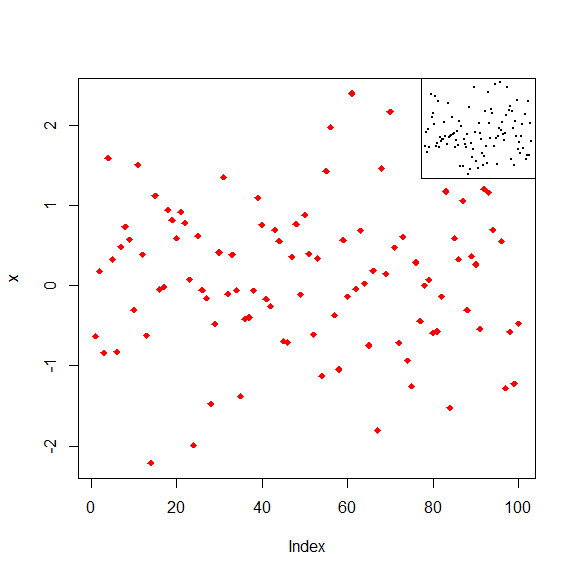
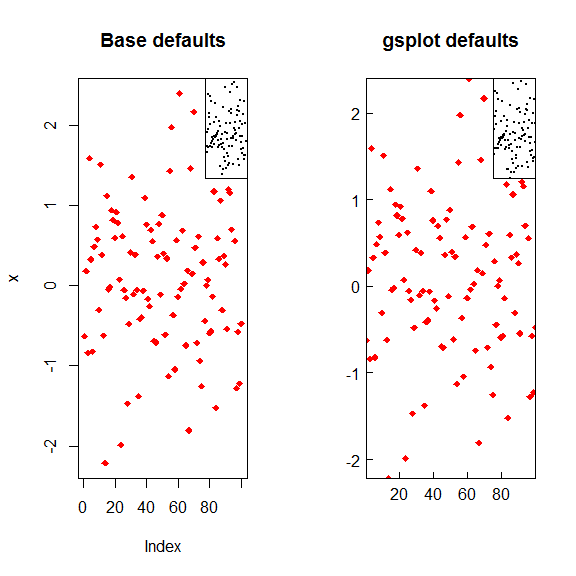
Adding an inset combined with mixing base/gsplot in a mfrow call to readme.

diff --git a/README.md b/README.md
@@ -398,13 +398,18 @@ Inset
 Base:
 
 ``` r
+#Base:
+
 set.seed(1)
 x <- rnorm(100)  
 y <- rnorm(100)  
 
 
-plot(x, pch=18, col="red")
+par(mfcol=c(1,2)) #Let's look at base next to gsplot
+
+plot(x, pch=18, col="red", main="Base defaults")
 u <- par("usr")
+mar.par <- par()$mar
 p <- c(.75, .75, 1, 1) #xbot, ybot, xhigh, yhigh
 v <- c(grconvertX(p[c(1,3)], "npc", "ndc"),
        grconvertY(p[c(2,4)], "npc", "ndc"))
@@ -413,31 +418,25 @@ user <- c(grconvertX(p[c(1,3)], "npc", "user"),
 rect(user[1], user[3], user[2], user[4], col="white")
 par(new=TRUE, mar=c(0,0,0,0), fig=v)
 plot(y, axes=FALSE, xlab="",ylab="", pch=20, cex=0.5)
-```
 
-![](README_files/figure-markdown_github/unnamed-chunk-24-1.png)
-
-gsplot:
-
-``` r
-loadConfig()
-
-
+#gsplot:
 gs_main <- gsplot() %>%
-  points(x, pch=18)
+  points(x, pch=18) %>%
+  title(main="gsplot defaults")
 gs_inset <- gsplot() %>%
   points(y, axes=FALSE, xlab="", ylab="", pch=20, cex=0.5, col="black") %>%
   background_color(col="white") 
 
+par(new=TRUE, fig=c(0.5,1,0,1), mar=mar.par) #step into gsplot
 gs_main
-p <- c(.75, .75, 1, 1) #xlow, ylow, xhigh, yhigh
-v <- c(grconvertX(p[c(1,3)], "npc", "ndc"),
-       grconvertY(p[c(2,4)], "npc", "ndc"))
-par(new=TRUE, mar=c(0,0,0,0), fig=v)
+par(new=TRUE, mar=c(0,0,0,0), fig=v+ c(0.5,0.5,0,0))
 gs_inset
 ```
 
-![](README_files/figure-markdown_github/unnamed-chunk-25-1.png)
+![](README_files/figure-markdown_github/unnamed-chunk-24-1.png)
+
+Config and Theme
+----------------
 
 Disclaimer
 ----------
